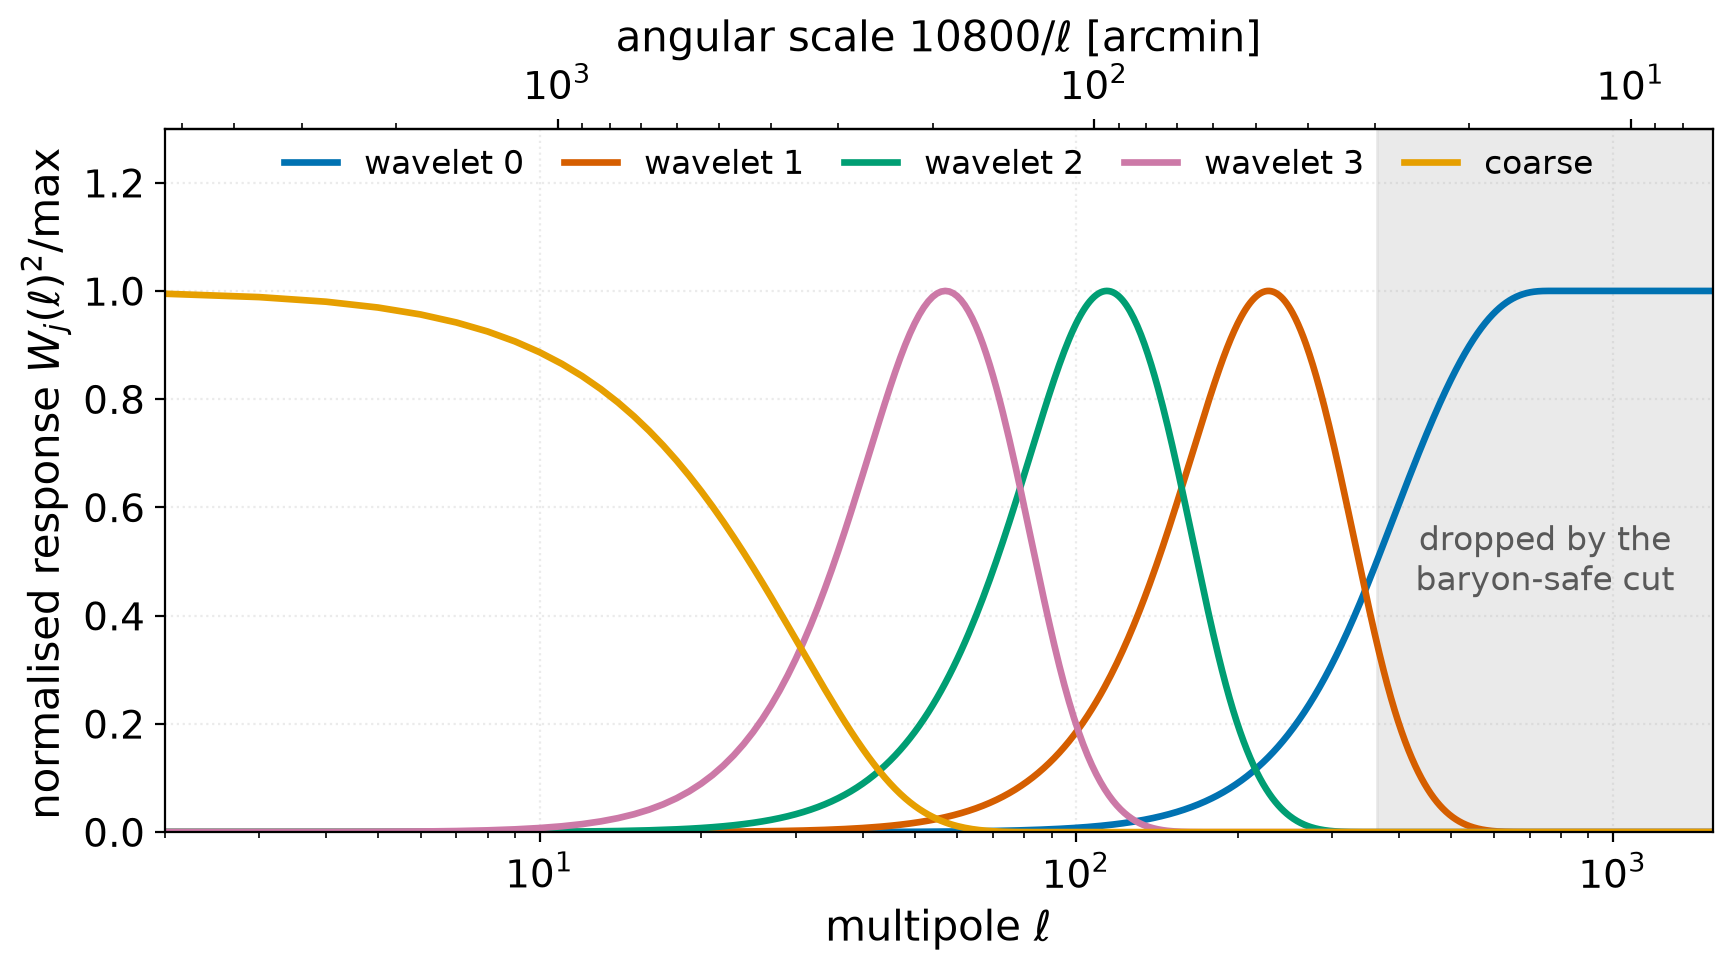
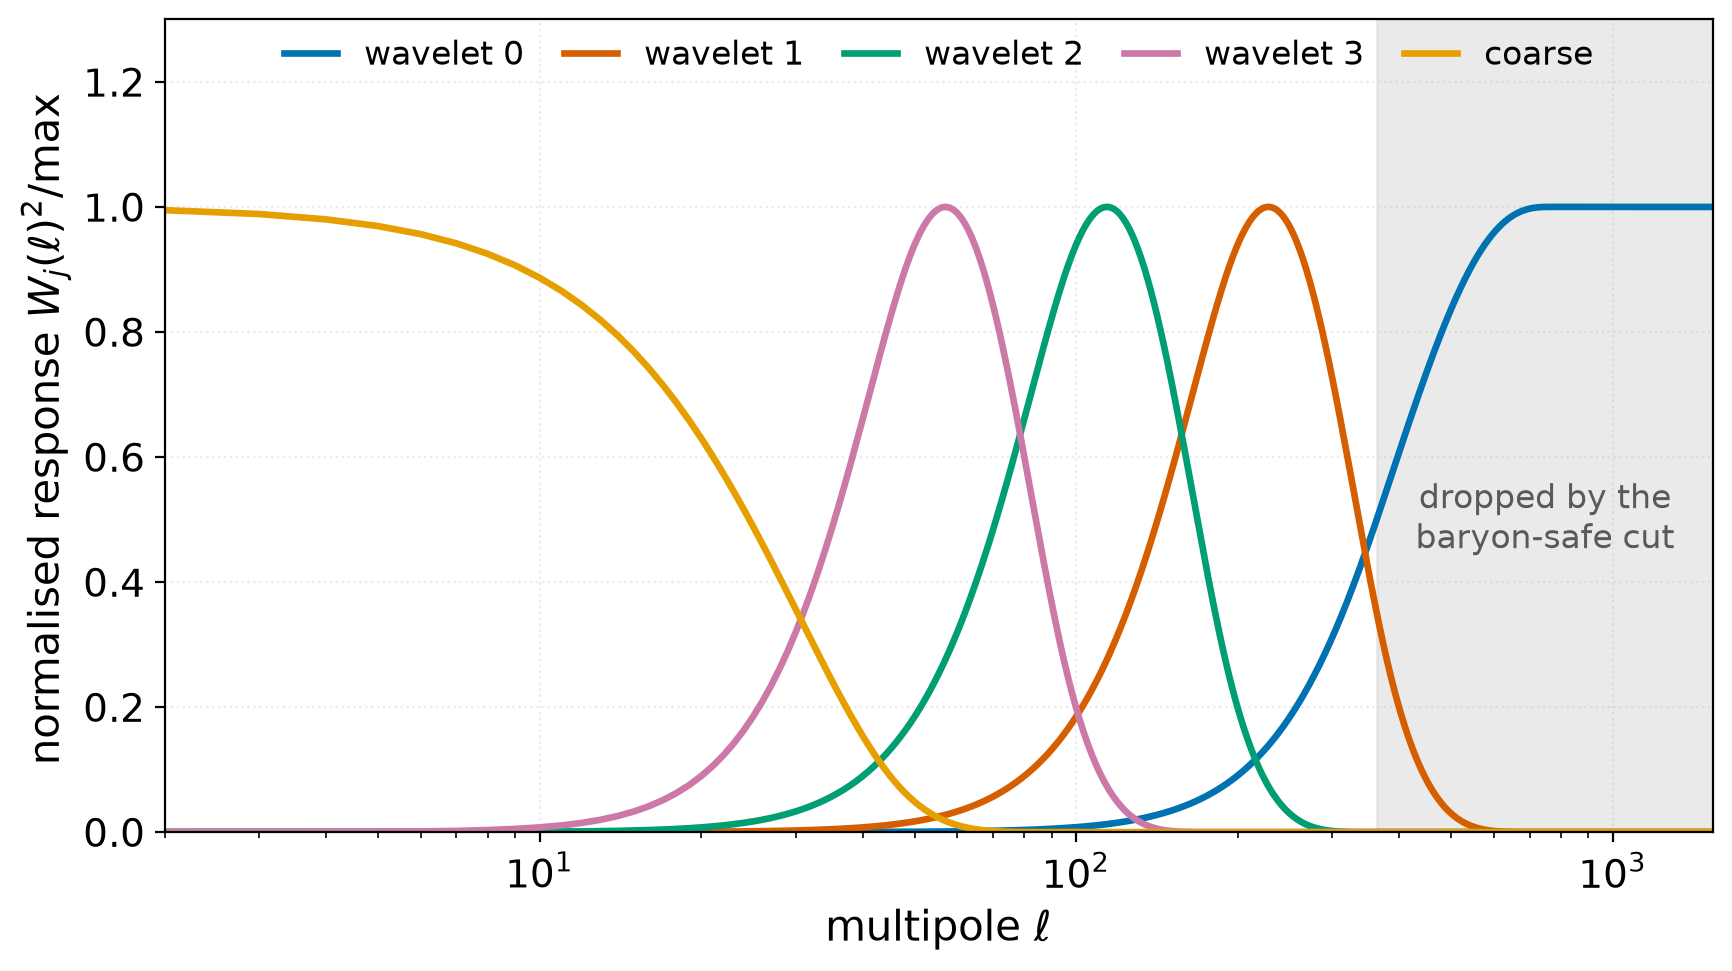
starlet figure: drop the 10800/ell top axis
The paper figures carry no axis titles beyond the two axes, and this one was worse than
redundant: theta ~ 10800/ell is a CONVENTION (360/ell and 2pi/ell are also used), and for
this transform it invites the exact mis-conversion the note warns about -- a starlet band
peaks at roughly HALF the multipole its nominal scale label implies, so 10800/ell_peak is
not the scale name. The measured half-power ranges are the authoritative quantity, and the
conversion belongs in the caption where it can be qualified.

--top-axis restores it for internal use.

Claude-Session: https://claude.ai/code/session_01SXAYVGCxtZzGWLz7XRq3UF

diff --git a/scripts/diagnostics/starlet_scale_ell.py b/scripts/diagnostics/starlet_scale_ell.py
@@ -129,6 +129,10 @@ def main():
     ap.add_argument("--ndelta", type=int, default=8)
     ap.add_argument("--nreal", type=int, default=40)
     ap.add_argument("--tag", default="")
+    ap.add_argument("--top-axis", action="store_true",
+                    help="add the 10800/ell angular-scale axis on top. Off for the "
+                         "paper: the conversion is conventional and belongs in the "
+                         "caption, qualified.")
     a = ap.parse_args()
     os.makedirs(OUT, exist_ok=True)
 
@@ -196,10 +200,18 @@ def main():
     ax.legend(frameon=False, ncol=5, loc="upper center", fontsize=12,
           columnspacing=1.2, handlelength=1.6, borderaxespad=0.2)
     ax.grid(alpha=0.25, ls=":")
-    secax = ax.secondary_xaxis("top",
-                               functions=(lambda l: 10800.0 / np.clip(l, 1e-6, None),
-                                          lambda t: 10800.0 / np.clip(t, 1e-6, None)))
-    secax.set_xlabel(r"angular scale $10800/\ell$ [arcmin]")
+    # NO top angular-scale axis by default. theta[arcmin] ~ 10800/ell is a CONVENTION (from
+    # theta ~ 180 deg / ell, and 180 deg = 10800 arcmin); 360/ell and 2pi/ell are also in use.
+    # Worse, it invites exactly the mis-conversion this note warns about: a starlet band peaks
+    # at roughly HALF the multipole its nominal scale label implies, so 10800/ell_peak is not
+    # the scale name. The measured ell ranges are the authoritative quantity, and the
+    # conversion belongs in the caption where it can be qualified. --top-axis restores it for
+    # internal use.
+    if a.top_axis:
+        secax = ax.secondary_xaxis("top",
+                                   functions=(lambda l: 10800.0 / np.clip(l, 1e-6, None),
+                                              lambda t: 10800.0 / np.clip(t, 1e-6, None)))
+        secax.set_xlabel(r"angular scale $10800/\ell$ [arcmin]")
     fig.tight_layout()
     for ext in ("png", "pdf"):
         fig.savefig(f"{stem}.{ext}", dpi=200)

diff --git a/docs/starlet_scale_ell.md b/docs/starlet_scale_ell.md
@@ -96,6 +96,17 @@ The "rough angular scale" column is the dyadic smoothing-scale label and is deli
 `10800/ℓ_peak`: a starlet band peaks at a lower ℓ than its nominal scale size suggests, by a
 factor of about two. **The measured ℓ ranges are the authoritative quantity.**
 
+### A note on ℓ → angular scale
+
+A multipole ℓ is conventionally quoted as an angular scale `θ ≈ 180°/ℓ`, and since
+`180° = 10800′`, as `θ[arcmin] ≈ 10800/ℓ`. It is a rule of thumb, not an identity — `360°/ℓ`
+(full wavelength) and `2π/ℓ` are also in use — and for this transform it is actively
+misleading, because a starlet band peaks at roughly half the multipole its nominal scale label
+implies. Earlier versions of the figure carried a second axis showing `10800/ℓ` across the top;
+it has been removed for exactly that reason, and because the paper figures carry no axis
+titles beyond the two axes themselves. `--top-axis` restores it for internal use. If the
+conversion is wanted by the reader, put it in the caption where it can be qualified.
+
 ## 4. What this licenses in the analysis
 
 ### 4.1 The baryon-safe cut is a multipole cut
